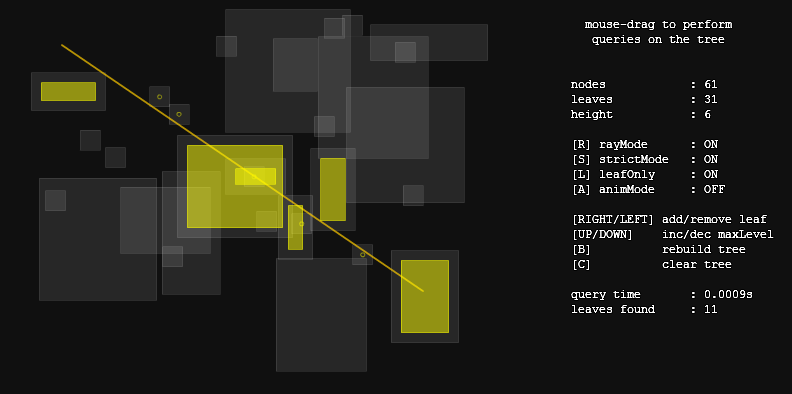
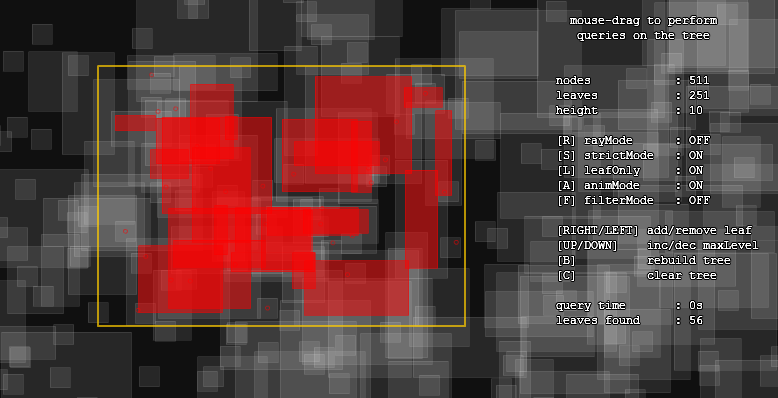
Changes:  - compiler flags to enable/disable validation  - update leaves with optional movement prediction  - inverted order of params to insertLeaf  - new animMode and filterMode added to demo  - improved docs with actual usage example  - new screenshot

diff --git a/README.md b/README.md
@@ -1,19 +1,84 @@
 AABBTree
 ========
 
-Haxe dynamic [AABB tree](http://en.wikipedia.org/wiki/Bounding_volume_hierarchy) for fast spatial partitioning and query.
+Haxe dynamic [AABB tree](http://en.wikipedia.org/wiki/Bounding_volume_hierarchy) for spatial partitioning and query.
 
  - fast insertion/removal/update
- - supports both AABB and raycast type of queries
- - easy to use and highly customizable
+ - supports both AABB and raycast type of queries (with filtering callbacks)
+ - easy to use and highly customizable (fattening factor, pool properties, insert strategies, etc.)
+ - extendable debug renderer to visualize build steps
  - no dependencies
 
-Check the [demo](https://dl.dropboxusercontent.com/u/32864004/dev/FPDemo/AABBTreeTest00.swf):
+Check the [demo](https://dl.dropboxusercontent.com/u/32864004/dev/FPDemo/AABBTreeTest01.swf):
 
 ![](screenshot.png)
 
 
-Take a look at [AABBTreeTest.hx](src/AABBTreeTest.hx) to see how to use it.
+###BASIC USAGE EXAMPLE
+```haxe
+// instances of this class will be stored in the tree
+class Entity
+{
+	public var id:Int = -1;   // id to interact with the tree
+	public mbr:AABB;          // minimum bounding rect
+	public var type:String;
+	...
+	public function new(type:String, x:Float, y:Float, width:Float, height:Float)
+	{
+		this.type = type;
+		mbr = new AABB(x, y, width, height);
+		...
+	}
+}
+
+...
+
+// create the tree and add a bunch of entities to it
+var tree = new AABBTree<Entity>();
+for (i in 0...50) {
+	var type = (i % 1 == 0) ? "type_one" : "type_two"; 
+	var entity = new Entity(type, some pos and size);
+	entity.id = tree.insertLeaf(entity, entity.mbr.x, entity.mbr.y, entity.mbr.width, entity.mbr.height);
+}
+
+// update an entity (if its position or size changed)
+tree.updateLeaf(entity.id, new pos and size);
+
+// remove an entity
+tree.removeLeaf(entity.id);
+
+// get all entities in the tree
+var entities = tree.getLeavesData();
+
+// ... or walk through them
+for (entity in tree) {
+	do some stuff
+}
+
+// query the tree for entities overlapping the rect (x:-100, y:-100, w:200, h:200)
+var results = tree.query(x, y, w, h);
+
+// query the tree for entities _fully contained_ in the rect (x:-100, y:-100, w:200, h:200)
+var results = tree.query(x, y, w, h, true);
+
+// query the tree for entities intersecting the ray from (0, 0) to (100, 100) 
+var results = tree.rayCast(0, 0, 100, 100);
+
+// query the tree for entities intersecting the ray from (0, 0) to (100, 100) 
+// use a callback for filtering by "type_two" and append results to prevResults array
+function rayCallback(entity:Entity, id:Int):HitBehaviour {
+	return (entity.type == "type_two") ? HitBehaviour.INCLUDE : HitBehaviour.SKIP;
+} 
+
+tree.rayCast(0, 0, 100, 100, prevResults, rayCallback);
+```
+
+###VALIDATION CHECKS
+By default compiling in DEBUG mode will enable a series of tests to ensure the structure's validity (will affect performance), while in RELEASE mode they won't be executed.
+
+You can force the validation by passing `-DTREE_CHECKS` to the compiler, or forcefully disable it with `-DNO_TREE_CHECKS`.
+
+The `isValidationEnabled` property will be set consequently.
 
 ###CREDITS
 The code is heavily inspired by the implementations of a dynamic AABB tree by 
